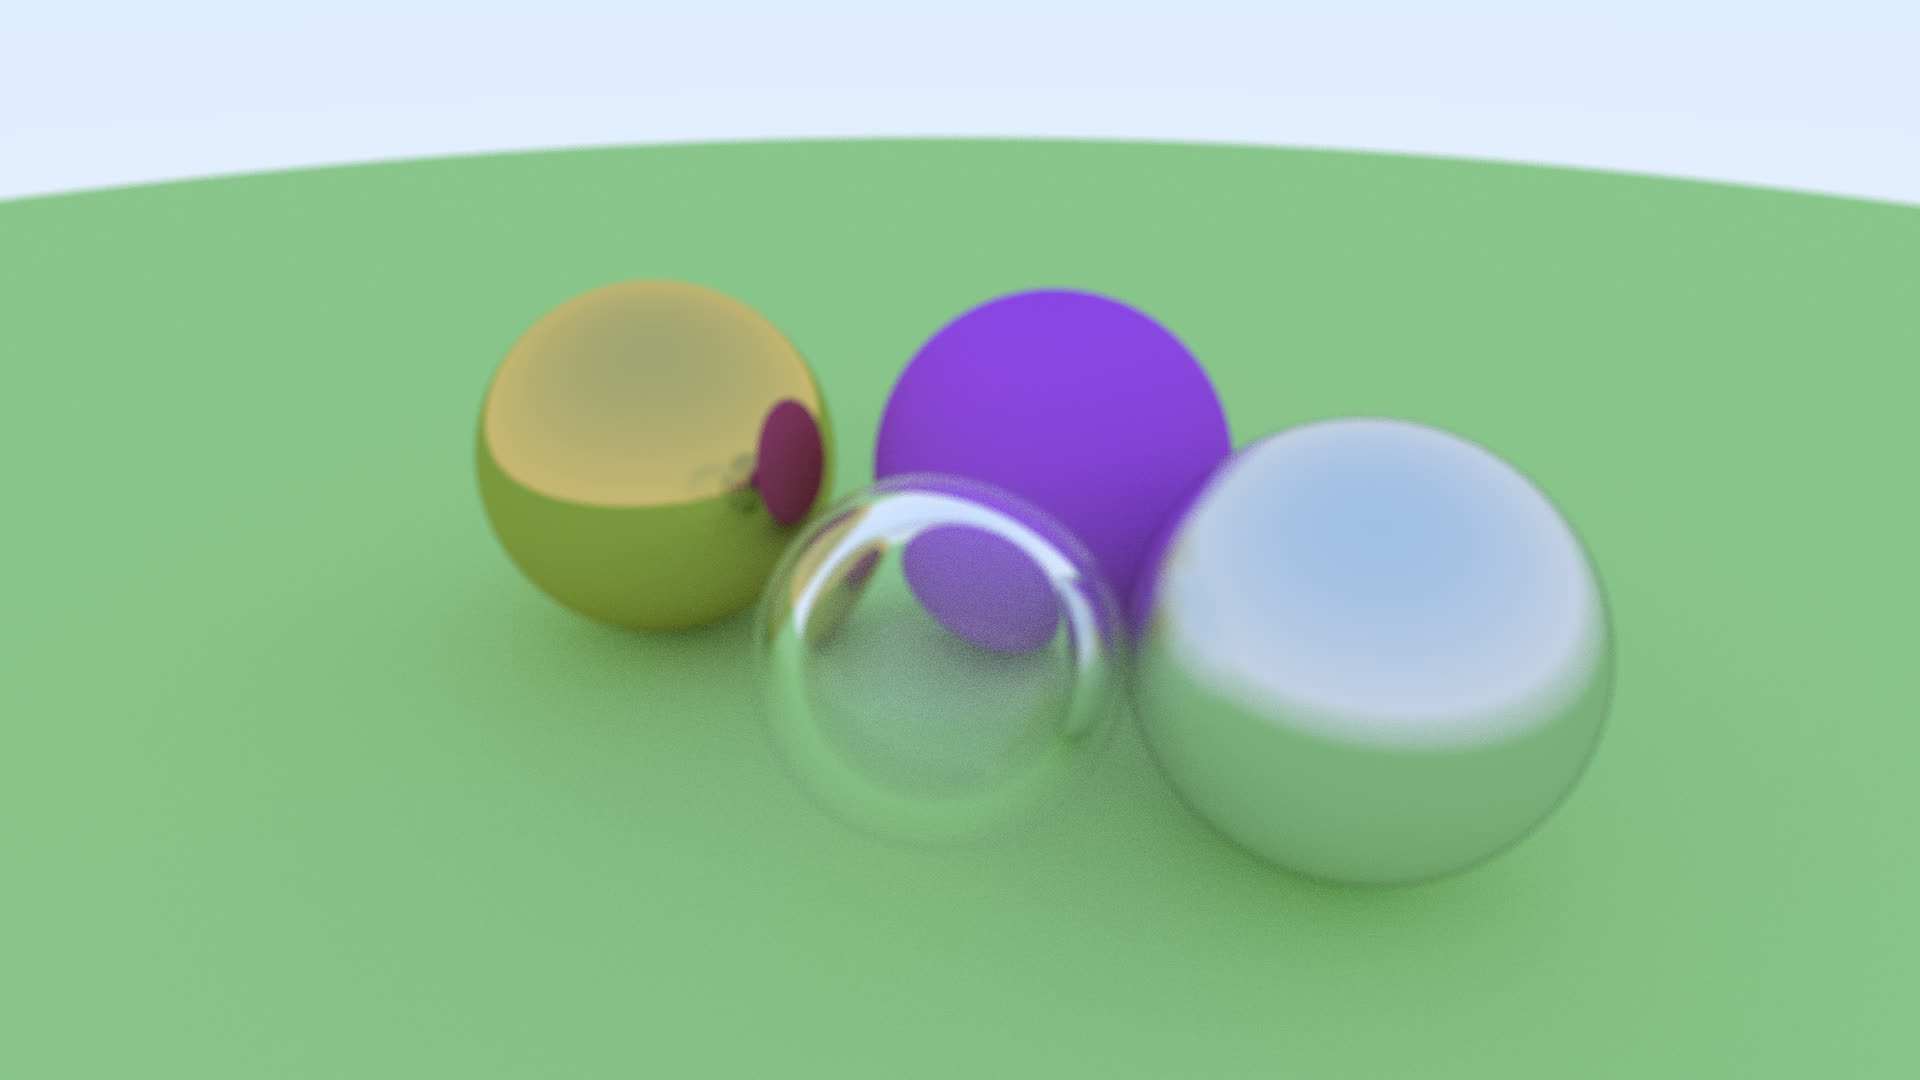
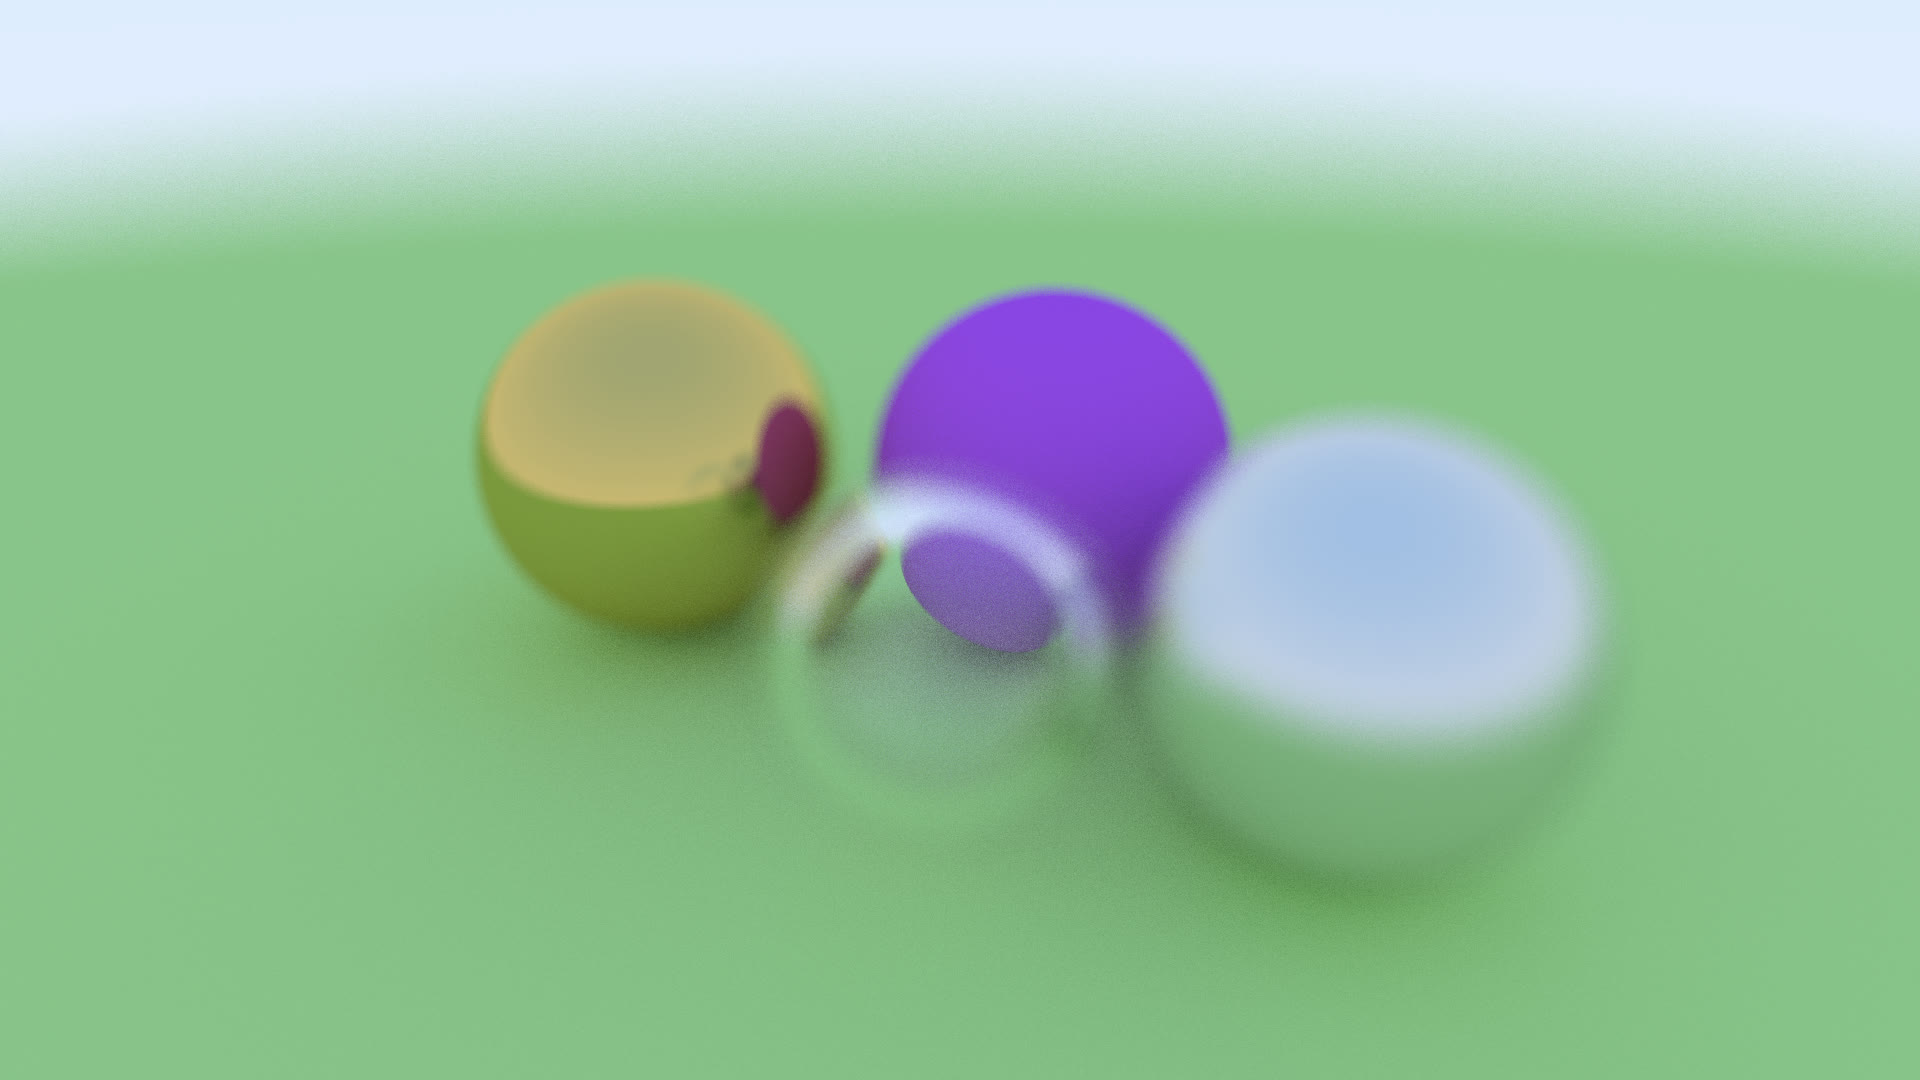
changes to depth of field in camera

diff --git a/camera.h b/camera.h
@@ -106,7 +106,7 @@ class camera{
             vec3 ray_origin=(defocus_angle<=0)?camera_center:defocus_disk_sample();
             vec3 ray_direction=pixel_sample-ray_origin;
             
-            return ray(camera_center,ray_direction);
+            return ray(ray_origin,ray_direction);
         }
 
         vec3 sample_square() const{

diff --git a/ray_sphere.cpp b/ray_sphere.cpp
@@ -35,7 +35,7 @@ int main(){
     cam.lookat=point3(0,0,-1.5);
     cam.vup=vec3(0,1,0);
 
-    cam.defocus_angle=0.5;
+    cam.defocus_angle=10.0;
     cam.focus_dist=(cam.lookfrom-cam.lookat).length();
 
     cam.render(world,"temp.ppm");